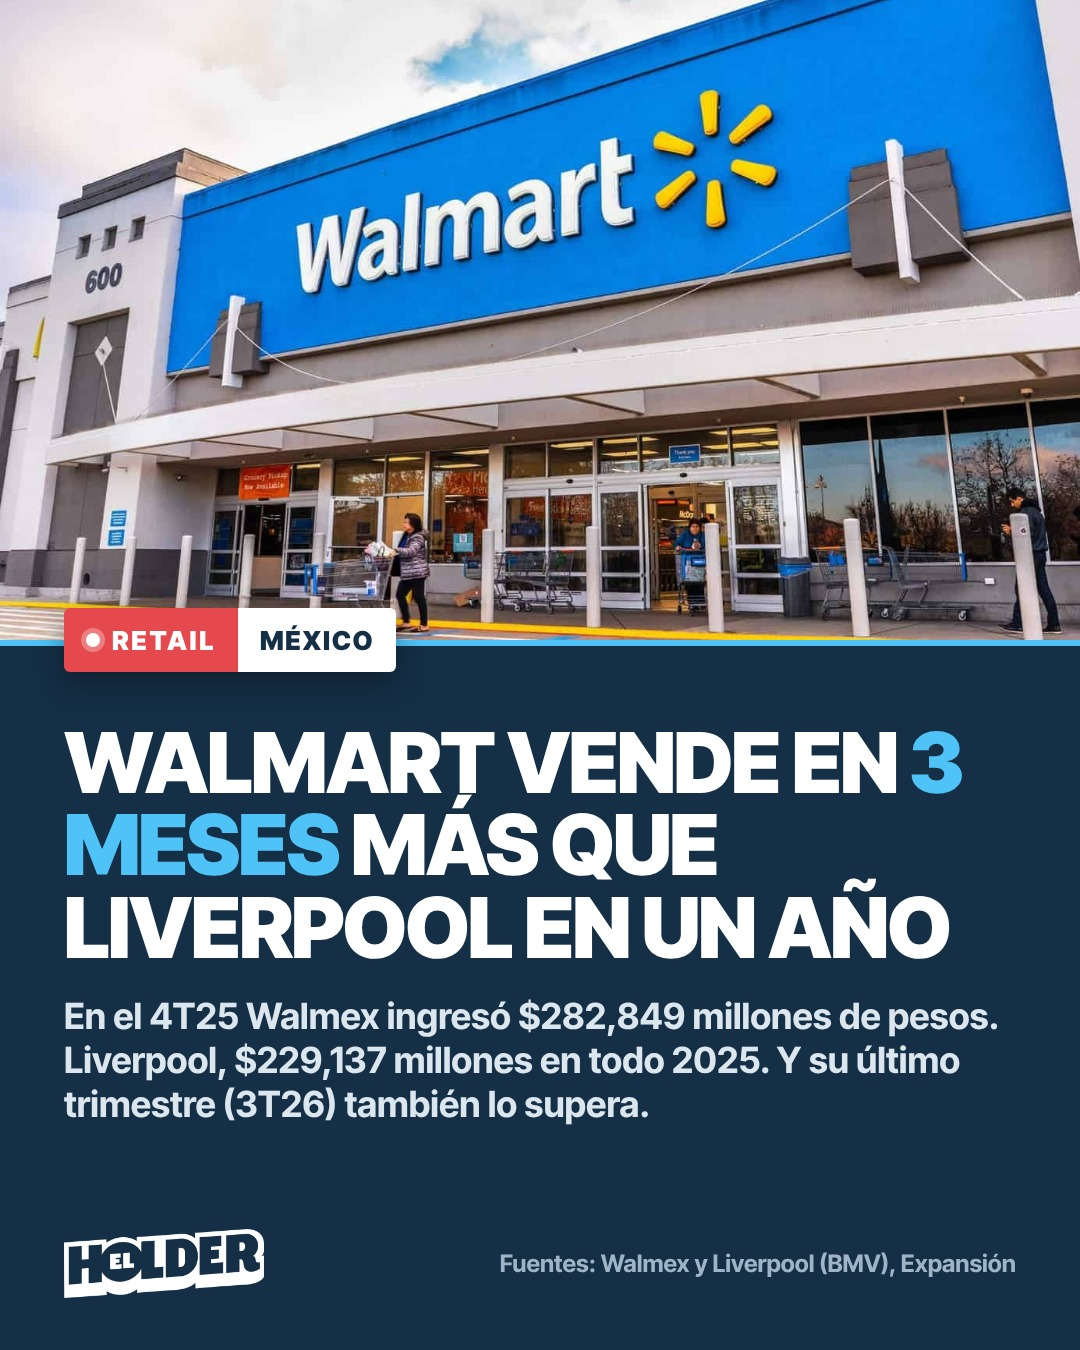
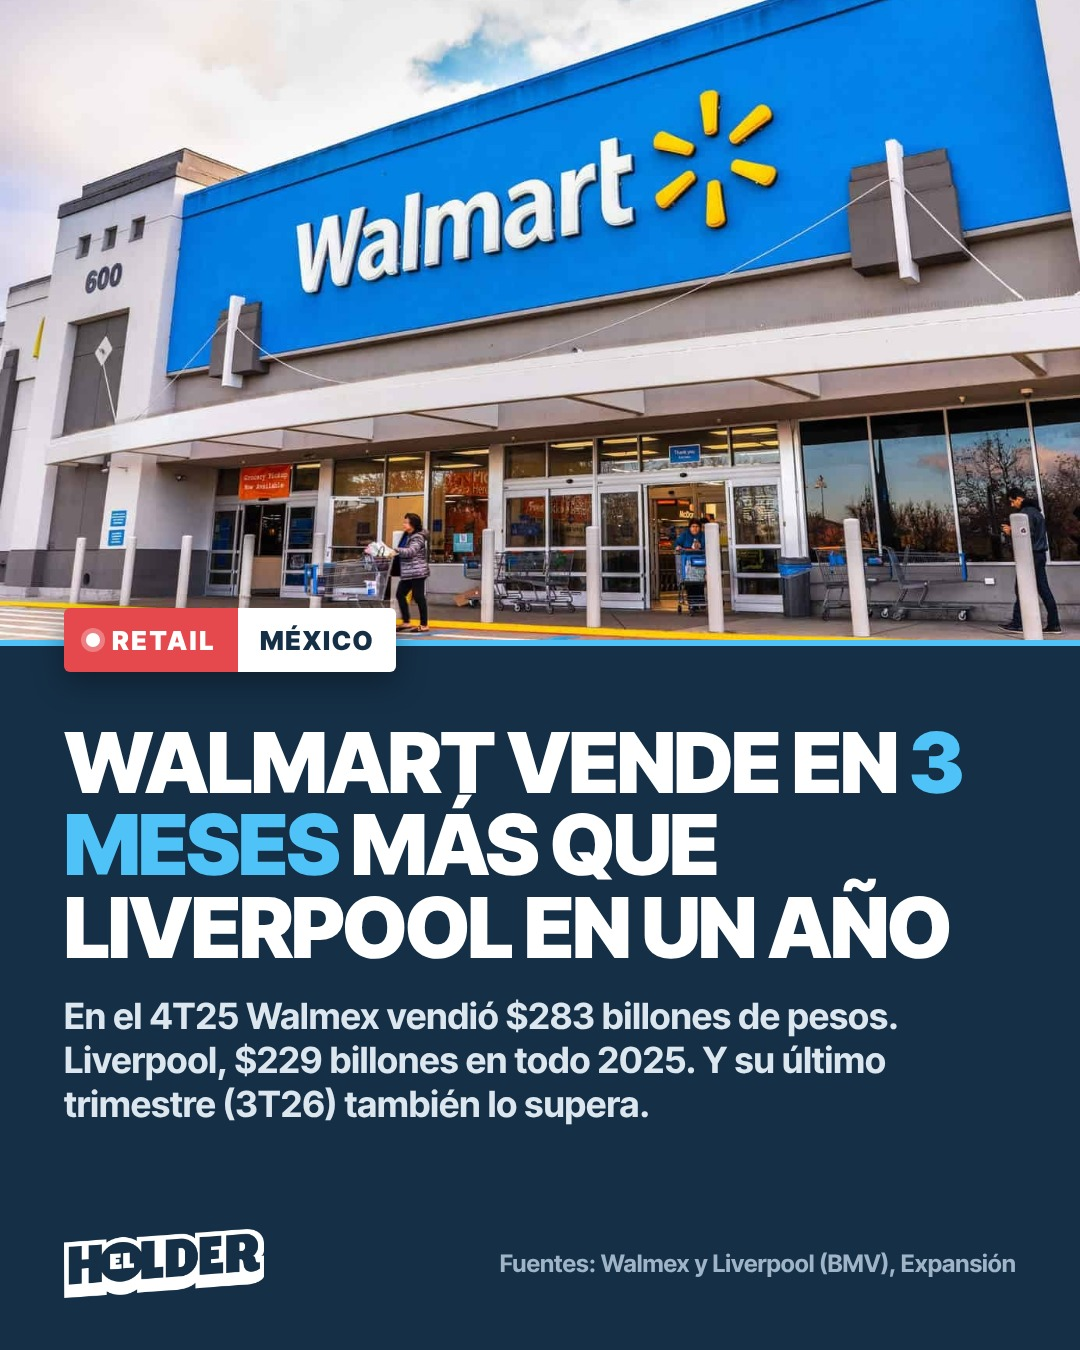
Walmart: cifras redondas
Claude-Session: https://claude.ai/code/session_011HtJt2a4sBpoKNENnst7wy

Changed region(s): [[0.3056, 0.7156, 0.9167, 0.8089]]

diff --git a/noticias/2026-11-12-walmart-liverpool/src/noticia.html b/noticias/2026-11-12-walmart-liverpool/src/noticia.html
@@ -22,7 +22,7 @@ p{margin:0;font-weight:700;font-size:36px;line-height:1.22;color:#DCE6EF}
 <div id="pill"><span class="l"><i></i>RETAIL</span><span class="r">MÉXICO</span></div>
 <div id="txt" class="chk">
  <h1 class="chk">Walmart vende en <span class="a">3 meses</span> más que Liverpool en un año</h1>
- <p class="chk">En el 4T25 Walmex ingresó $282,849 millones de pesos. Liverpool, $229,137 millones en todo 2025. Y su último trimestre (3T26) también lo supera.</p>
+ <p class="chk">En el 4T25 Walmex vendió $283 billones de pesos. Liverpool, $229 billones en todo 2025. Y su último trimestre (3T26) también lo supera.</p>
 </div>
 <div id="pie"><img src="../../../brand/logo-horizontal-transparente.png"><span>Fuentes: Walmex y Liverpool (BMV), Expansión</span></div>
 </body></html>
